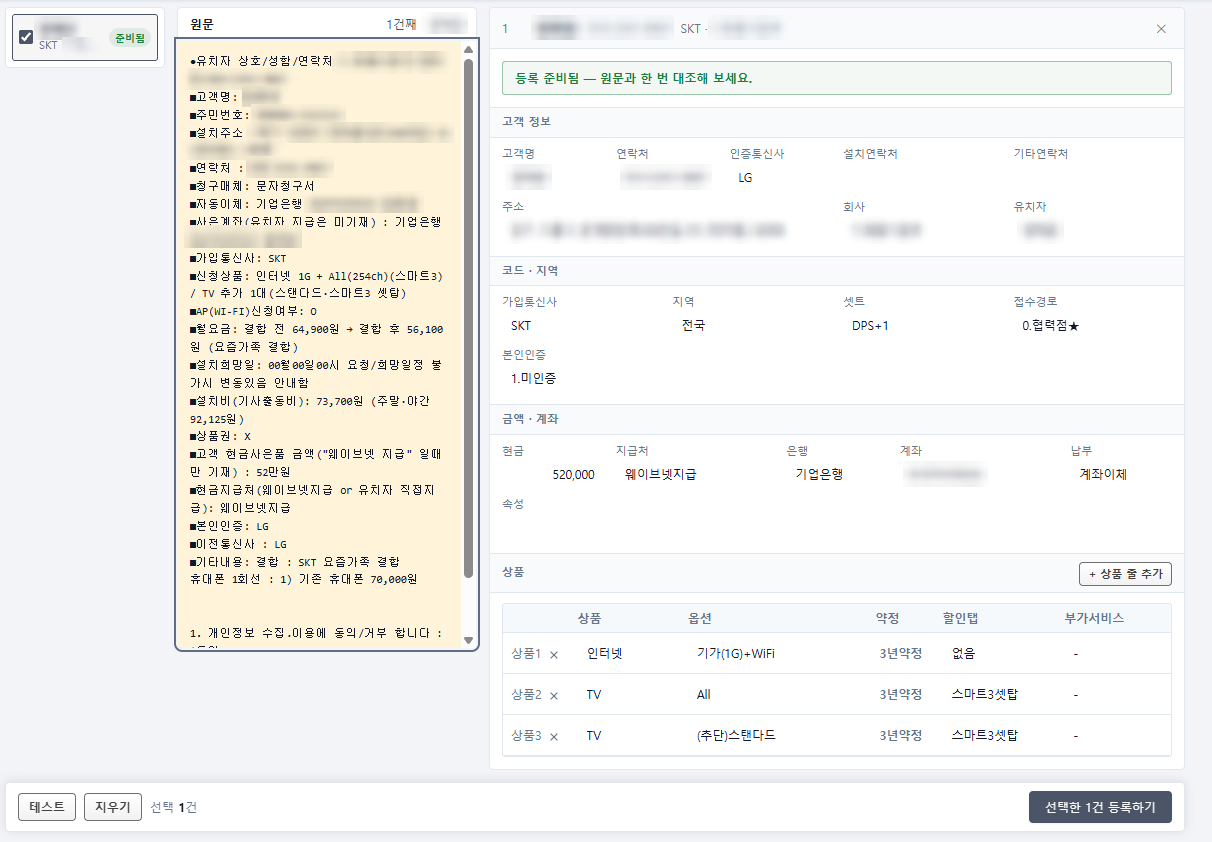
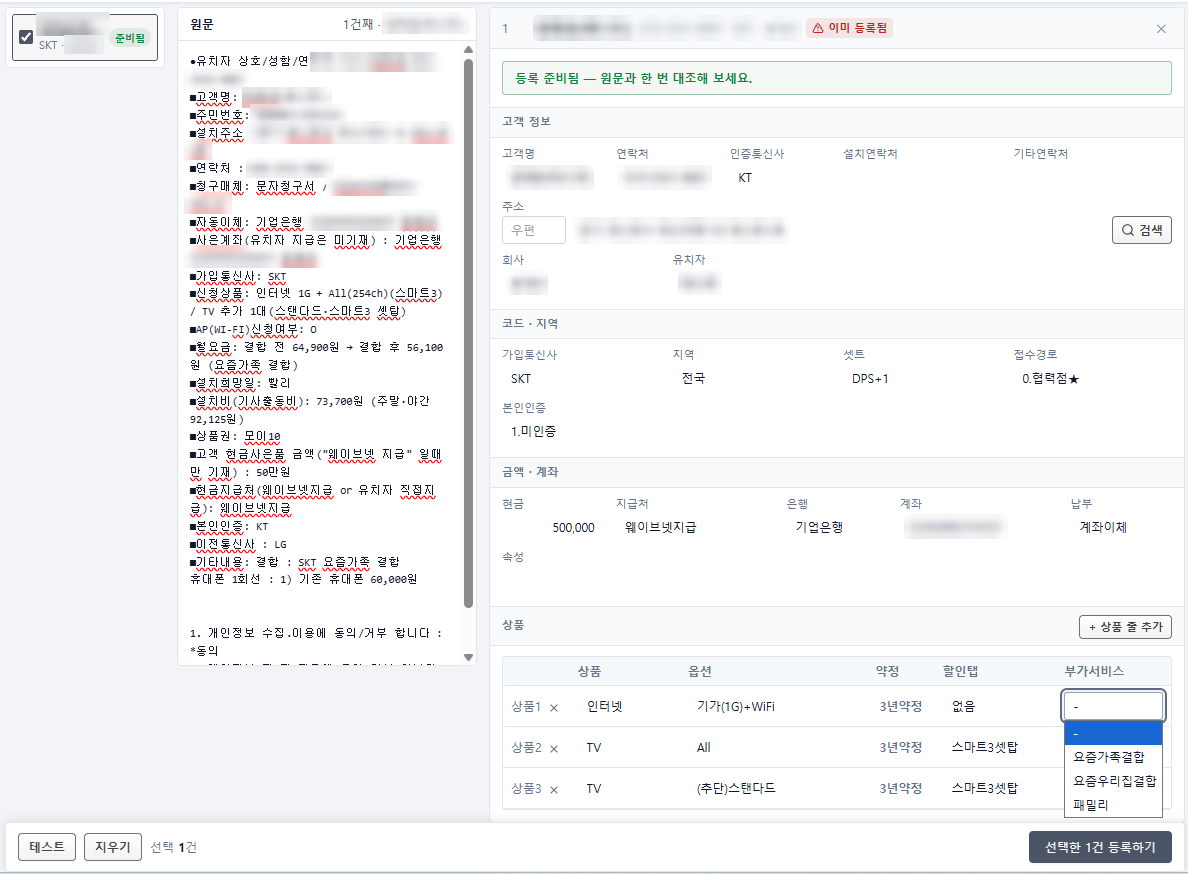
미리보기: 자동고객등록에 SK 결합 직접 선택 안내, 추단·주소 검색 반영
- SK 결합은 아직 자동 인식되지 않으므로 검토 화면 인터넷 행 부가서비스에서 직접 선택하도록
  1~3단계(핵심만, 경고, 순서, 등록 전 대조)에 안내 추가
- 추가 TV는 (추단) 상품 줄로 잡힌다는 점과 검토 화면 주소 검색 기능 추가
- 등록 준비됨 캡처를 새 화면으로 교체(개인정보·회사명 가림), 핀 설명 갱신

Claude-Session: https://claude.ai/code/session_01U7bNvW3DExLcB2TdmBFNPf

diff --git a/preview/index.html b/preview/index.html
@@ -715,6 +715,7 @@ details.qa .a .where:hover{background:var(--brand-50); color:var(--brand-600);}
             <li><svg class="ic"><use href="#i-check"/></svg><span>정해진 양식을 <b>항목 하나 빠짐없이</b> 채웁니다</span></li>
             <li><svg class="ic"><use href="#i-check"/></svg><span>자동등록은 <b>유선 · 유선+OSS</b>만 됩니다 — 유심동판은 <a href="#" data-go="s6">고객등록(수동)</a>으로</span></li>
             <li><svg class="ic"><use href="#i-check"/></svg><span>여러 고객도 양식을 <b>아래로 이어 붙여</b> 한 번에 등록할 수 있습니다</span></li>
+            <li><svg class="ic"><use href="#i-check"/></svg><span><b>SK 결합</b>은 양식에 적어도 아직 자동으로 들어가지 않습니다 — 검토 화면에서 <b>직접 선택</b></span></li>
           </ul>
         </div>
 
@@ -742,7 +743,7 @@ details.qa .a .where:hover{background:var(--brand-50); color:var(--brand-600);}
           <h2>이것만 지키세요</h2>
           <div class="fields two">
             <div class="f"><div class="f-n">■가입통신사 · ■신청상품</div><div class="f-v"><b>정확하고 자세하게.</b> 상품 줄과 셋트(단독 / DPS / DPS+1 …)가 이걸 보고 자동으로 잡힙니다
-              <span class="hint">예: 인터넷 1G + All(254ch)(스마트3) / TV 추가 1대(스탠다드·스마트3 셋탑)</span></div></div>
+              <span class="hint">예: 인터넷 1G + All(254ch)(스마트3) / TV 추가 1대(스탠다드·스마트3 셋탑) — 추가 TV는 <b>(추단)</b> 상품 줄로 따로 잡힙니다</span></div></div>
             <div class="f"><div class="f-n">■주민번호</div><div class="f-v"><b>13자리 전체.</b> 자릿수가 틀리면 "주민번호 못읽음"이 뜹니다</div></div>
             <div class="f"><div class="f-n">■현금지급처 · 사은품 금액</div><div class="f-v"><span class="v">웨이브넷지급</span>이 미리 적혀 있고, 이때는 <b>사은품 금액이 필수</b>입니다 <span class="muted">(52만원처럼 써도 520,000으로 읽힘)</span>
               <span class="hint">유치자 직접지급이면 지우고 <b>유치자지급</b>으로 고쳐 씁니다</span></div></div>
@@ -752,6 +753,7 @@ details.qa .a .where:hover{background:var(--brand-50); color:var(--brand-600);}
             <div class="f"><div class="f-n">■사은계좌</div><div class="f-v">예금주 조회 없이 <b>적은 그대로</b> 등록됩니다 — 은행 · 계좌번호 · 예금주를 정확히</div></div>
           </div>
           <div class="co co-info"><svg class="ic"><use href="#i-info"/></svg><div><b>필수 항목</b> — ●유치자 · ■고객명 · ■주민번호 · ■연락처 · ■가입통신사 · ■신청상품 · ■본인인증 · ■현금지급처(웨이브넷지급이면 사은품 금액까지). 빠지면 다음 단계에서 <b>빨간 칸</b>으로 알려줍니다.<span class="hint" style="color:inherit;opacity:.8">접수경로는 협력점 아이디로 자동 입력되고, 지역은 SKB만 도매 / 소매를 직접 고릅니다.</span></div></div>
+          <div class="co co-warn"><svg class="ic"><use href="#i-alert"/></svg><div><b>SK 결합은 아직 자동 인식되지 않습니다.</b> ■월요금 · ■기타내용에 결합을 적어도 인터넷 행 부가서비스가 비어서(-) 들어갑니다. 결합 요청 건이면 <a href="#" data-go="a2">2단계 검토</a>에서 <b>인터넷 행 부가서비스</b>를 직접 고르세요.<span class="hint" style="color:inherit;opacity:.8">웹전산이 결합을 읽도록 수정되면 이 안내는 빠집니다.</span></div></div>
         </div>
 
         <div class="sec">
@@ -845,7 +847,10 @@ details.qa .a .where:hover{background:var(--brand-50); color:var(--brand-600);}
               <span class="hint">양식이 없으면 <span class="ui ghost">빈 유선 양식 불러오기</span>로 불러와서 바로 채워도 됩니다</span></div></li>
             <li><div>왼쪽 목록의 <span class="t t-must">N칸</span> 표시를 눌러 <b>빨간 테두리 칸만 채웁니다</b>
               <span class="hint">"○○ 못읽음"은 원문을 보고 직접 넣습니다. 빨간 칸이 아니어도 글자를 누르면 고칠 수 있습니다</span>
-              <span class="hint">"비어 있음 · 등록은 됩니다"로 뜨는 칸(회사, 본인인증)은 비어도 등록되지만 한 번 확인하세요</span></div></li>
+              <span class="hint">"비어 있음 · 등록은 됩니다"로 뜨는 칸(회사, 본인인증)은 비어도 등록되지만 한 번 확인하세요</span>
+              <span class="hint">주소를 고칠 땐 주소 칸 오른쪽 <span class="ui ghost">검색</span>으로 찾아 넣습니다</span></div></li>
+            <li><div><span class="cr skt" style="height:20px;font-size:11.5px;">SK</span> <b>결합 요청 건이면</b> 오른쪽 상품 표 <b>인터넷 행 ▸ 부가서비스</b>에서 결합을 직접 고릅니다
+              <span class="hint">예: 이미 SK 휴대폰을 쓰는 고객 → <b>요즘가족결합</b> · 인터넷+TV 홈결합 → <b>요즘우리집결합</b> · <a href="#" data-go="s5">결합종류 설명</a></span></div></li>
           </ol>
         </div>
 
@@ -902,14 +907,16 @@ details.qa .a .where:hover{background:var(--brand-50); color:var(--brand-600);}
         <div class="sec">
           <div class="shot-card">
             <div class="shot-bar"><i></i><i></i><i></i><span>자동 고객등록</span><span class="zoom"><svg class="ic"><use href="#i-zoom"/></svg>누르면 크게</span></div>
-            <div class="shot"><img src="../assets/auto/auto-5-ready.png" alt="등록 준비됨 화면 — 원문과 결과, 상품 줄, 등록하기 버튼" loading="lazy" width="1212" height="842"><span class="pin" style="left:14.0%;top:4.8%">1</span><span class="pin" style="left:39.8%;top:9.1%">2</span><span class="pin" style="left:76.3%;top:38.6%">3</span><span class="pin" style="left:43.3%;top:56.3%">4</span><span class="pin" style="left:39.9%;top:77.2%">5</span><span class="pin" style="left:90.8%;top:92.6%">6</span></div>
+            <div class="shot"><img src="../assets/auto/auto-5-ready.png" alt="등록 준비됨 화면 — 주소 검색, 셋트, 상품 줄(추단), 인터넷 행 부가서비스 결합 선택, 등록하기 버튼" loading="lazy" width="1188" height="874"><span class="pin" style="left:14.3%;top:4.3%">1</span><span class="pin" style="left:41.8%;top:8.8%">2</span><span class="pin" style="left:92.6%;top:26.3%">3</span><span class="pin" style="left:76.2%;top:43.2%">4</span><span class="pin" style="left:43.8%;top:60.3%">5</span><span class="pin" style="left:41.8%;top:90.2%">6</span><span class="pin" style="left:88.4%;top:80.8%">7</span><span class="pin" style="left:85.7%;top:96.8%">8</span></div>
             <div class="shot-cap">
               <ol class="pins">
                 <li>목록에 <b>준비됨</b></li>
                 <li><b>등록 준비됨 — 원문과 한 번 대조해 보세요</b></li>
+                <li>주소를 고칠 땐 <b>검색</b></li>
                 <li>셋트가 신청상품대로 잡혔는지 <span class="muted">(예: DPS+1)</span></li>
-                <li>사은품 금액 <span class="muted">(52만원 → 520,000)</span></li>
-                <li>상품 줄 — 상품 · 옵션 · 약정 · 할인탭</li>
+                <li>사은품 금액 <span class="muted">(50만원 → 500,000)</span></li>
+                <li>상품 줄 — 추가 TV는 <b>(추단)</b> 줄로 따로</li>
+                <li><b>SK 결합</b>은 인터넷 행 부가서비스에서 <b>직접 선택</b></li>
                 <li><b>선택한 1건 등록하기</b></li>
               </ol>
             </div>
@@ -920,13 +927,14 @@ details.qa .a .where:hover{background:var(--brand-50); color:var(--brand-600);}
           <h2>등록 전 대조 <small>원문 ↔ 오른쪽 결과</small></h2>
           <div class="check" data-check>
             <label class="ck"><input type="checkbox"><span><b>가입통신사</b>가 맞나요?</span></label>
-            <label class="ck"><input type="checkbox"><span><b>상품 줄</b>이 신청상품과 같나요? <span class="muted">상품 · 옵션 · 약정 · 할인탭</span></span></label>
+            <label class="ck"><input type="checkbox"><span><b>상품 줄</b>이 신청상품과 같나요? <span class="muted">상품 · 옵션 · 약정 · 할인탭 · 추가 TV는 (추단)</span></span></label>
             <label class="ck"><input type="checkbox"><span><b>셋트</b>가 구성에 맞나요? <span class="muted">신청상품대로 자동 적용 — 누락 확인</span></span></label>
             <label class="ck"><input type="checkbox"><span><b>현금 · 지급처</b>가 맞나요?</span></label>
             <label class="ck"><input type="checkbox"><span><b>■자동이체</b> 계좌가 정확한가요? <span class="muted">틀리거나 비우면 지로납부</span></span></label>
             <label class="ck"><input type="checkbox"><span><b>■사은계좌</b>가 정확한가요? <span class="muted">적은 그대로 등록됨</span></span></label>
             <label class="ck"><input type="checkbox"><span><b>SKB</b>라면 <b>지역</b>에서 도매 / 소매를 골랐나요?</span></label>
-            <div class="check-f"><span class="meter"><i></i></span><span class="cnt">0 / 7 확인</span><button type="button">전체 해제</button></div>
+            <label class="ck"><input type="checkbox"><span><b>SK 결합</b> 요청 건이라면 <b>인터넷 행 부가서비스</b>에서 결합을 골랐나요? <span class="muted">자동으로 안 들어감</span></span></label>
+            <div class="check-f"><span class="meter"><i></i></span><span class="cnt">0 / 8 확인</span><button type="button">전체 해제</button></div>
           </div>
         </div>
 
